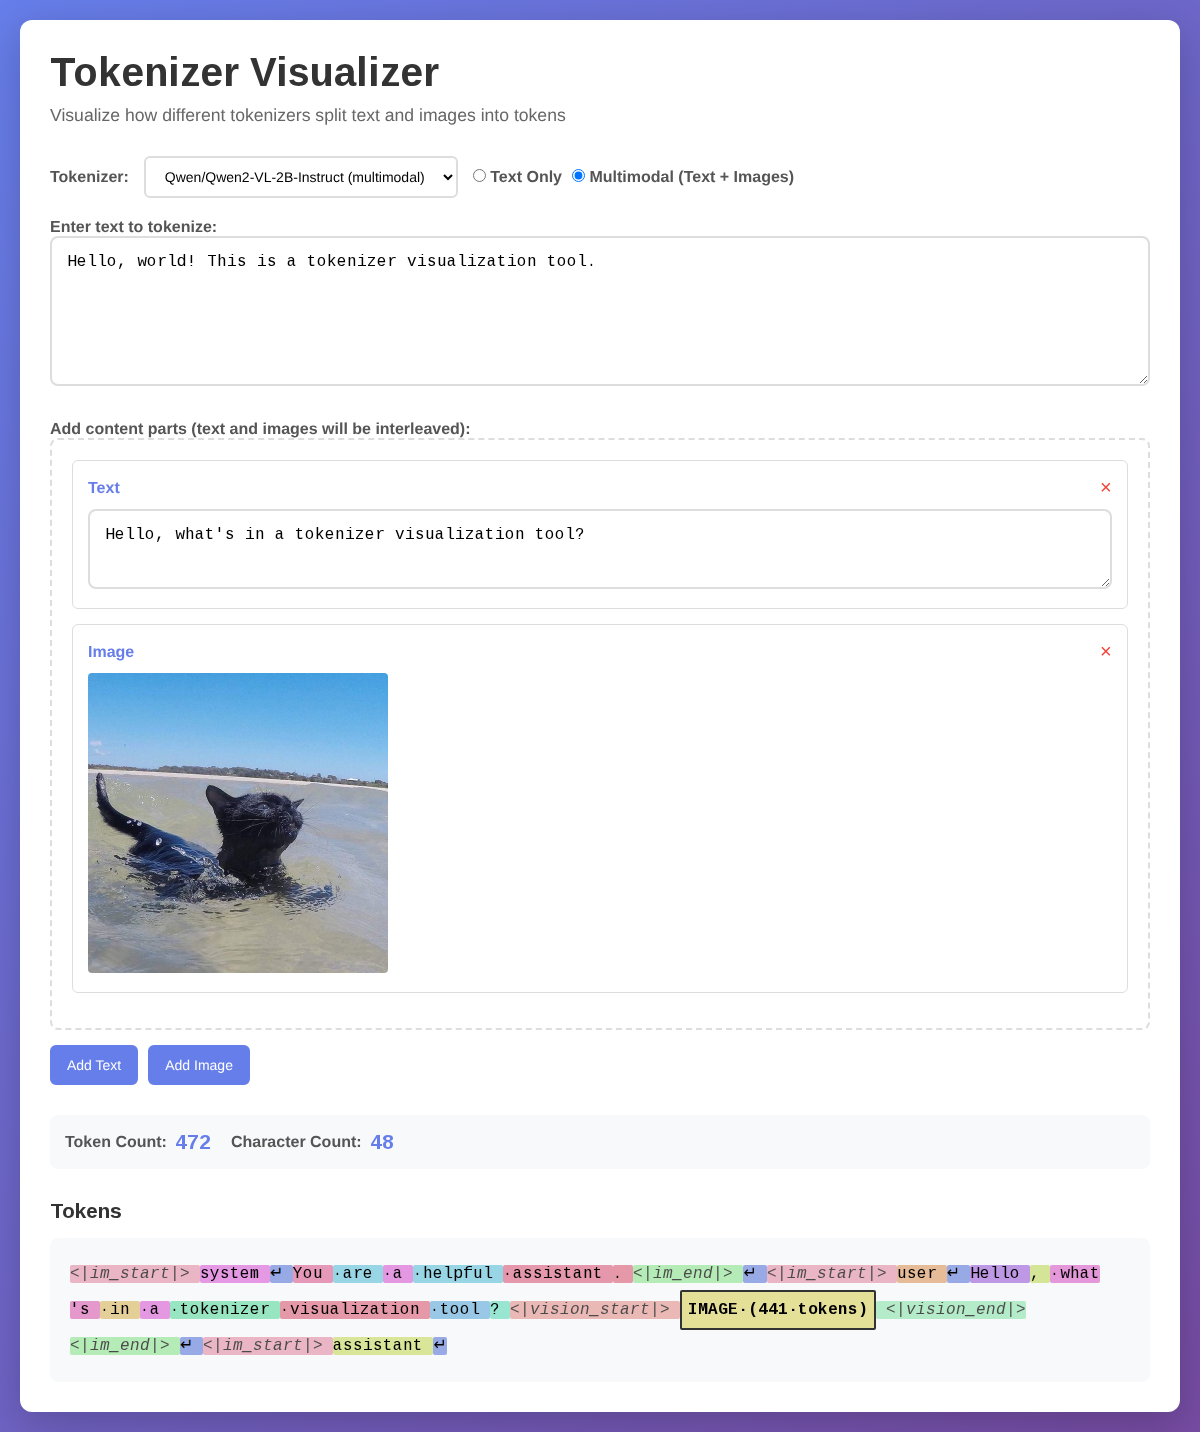
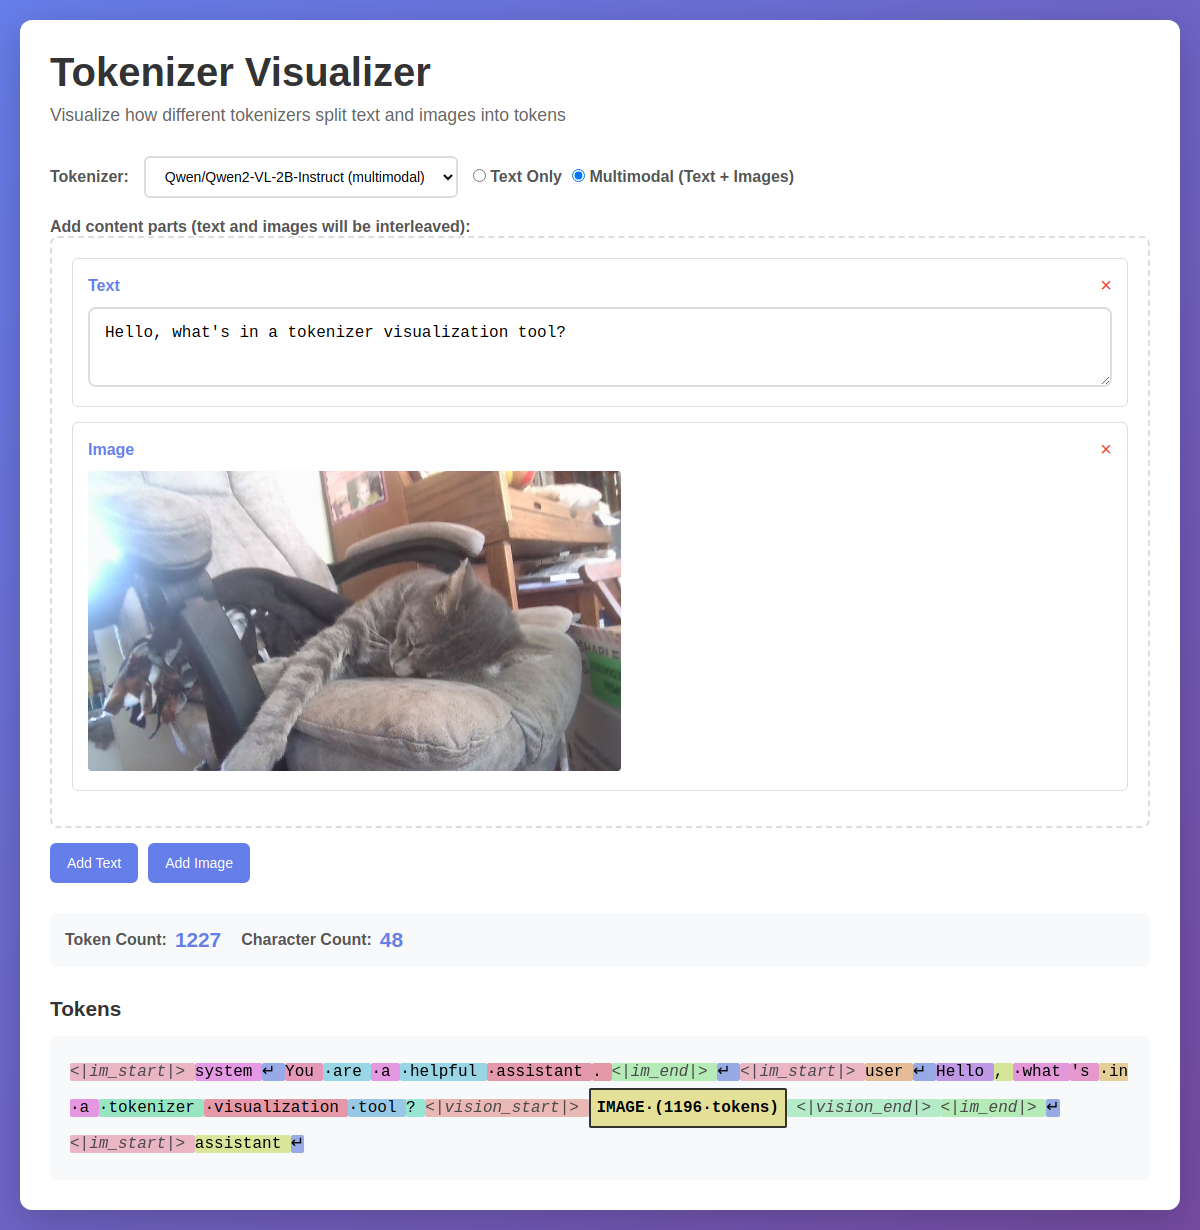
Hide textarea in multimodal mode and update screenshot
- Added CSS rules to hide text-input section when not active
- In multimodal mode, only the content parts section is visible
- Updated multimodal screenshot showing cleaner UI without textarea
- Text-only mode still shows the textarea as before

🤖 Generated with [Claude Code](https://claude.com/claude-code)

Changed region(s): [[0.0308, 0.0309, 0.9558, 0.9577], [0.925, 0.2472, 0.9558, 0.3089]]

diff --git a/index.html b/index.html
@@ -103,6 +103,14 @@
             border-color: #667eea;
         }
 
+        .text-input {
+            display: none;
+        }
+
+        .text-input.active {
+            display: block;
+        }
+
         .multimodal-input {
             display: none;
         }
